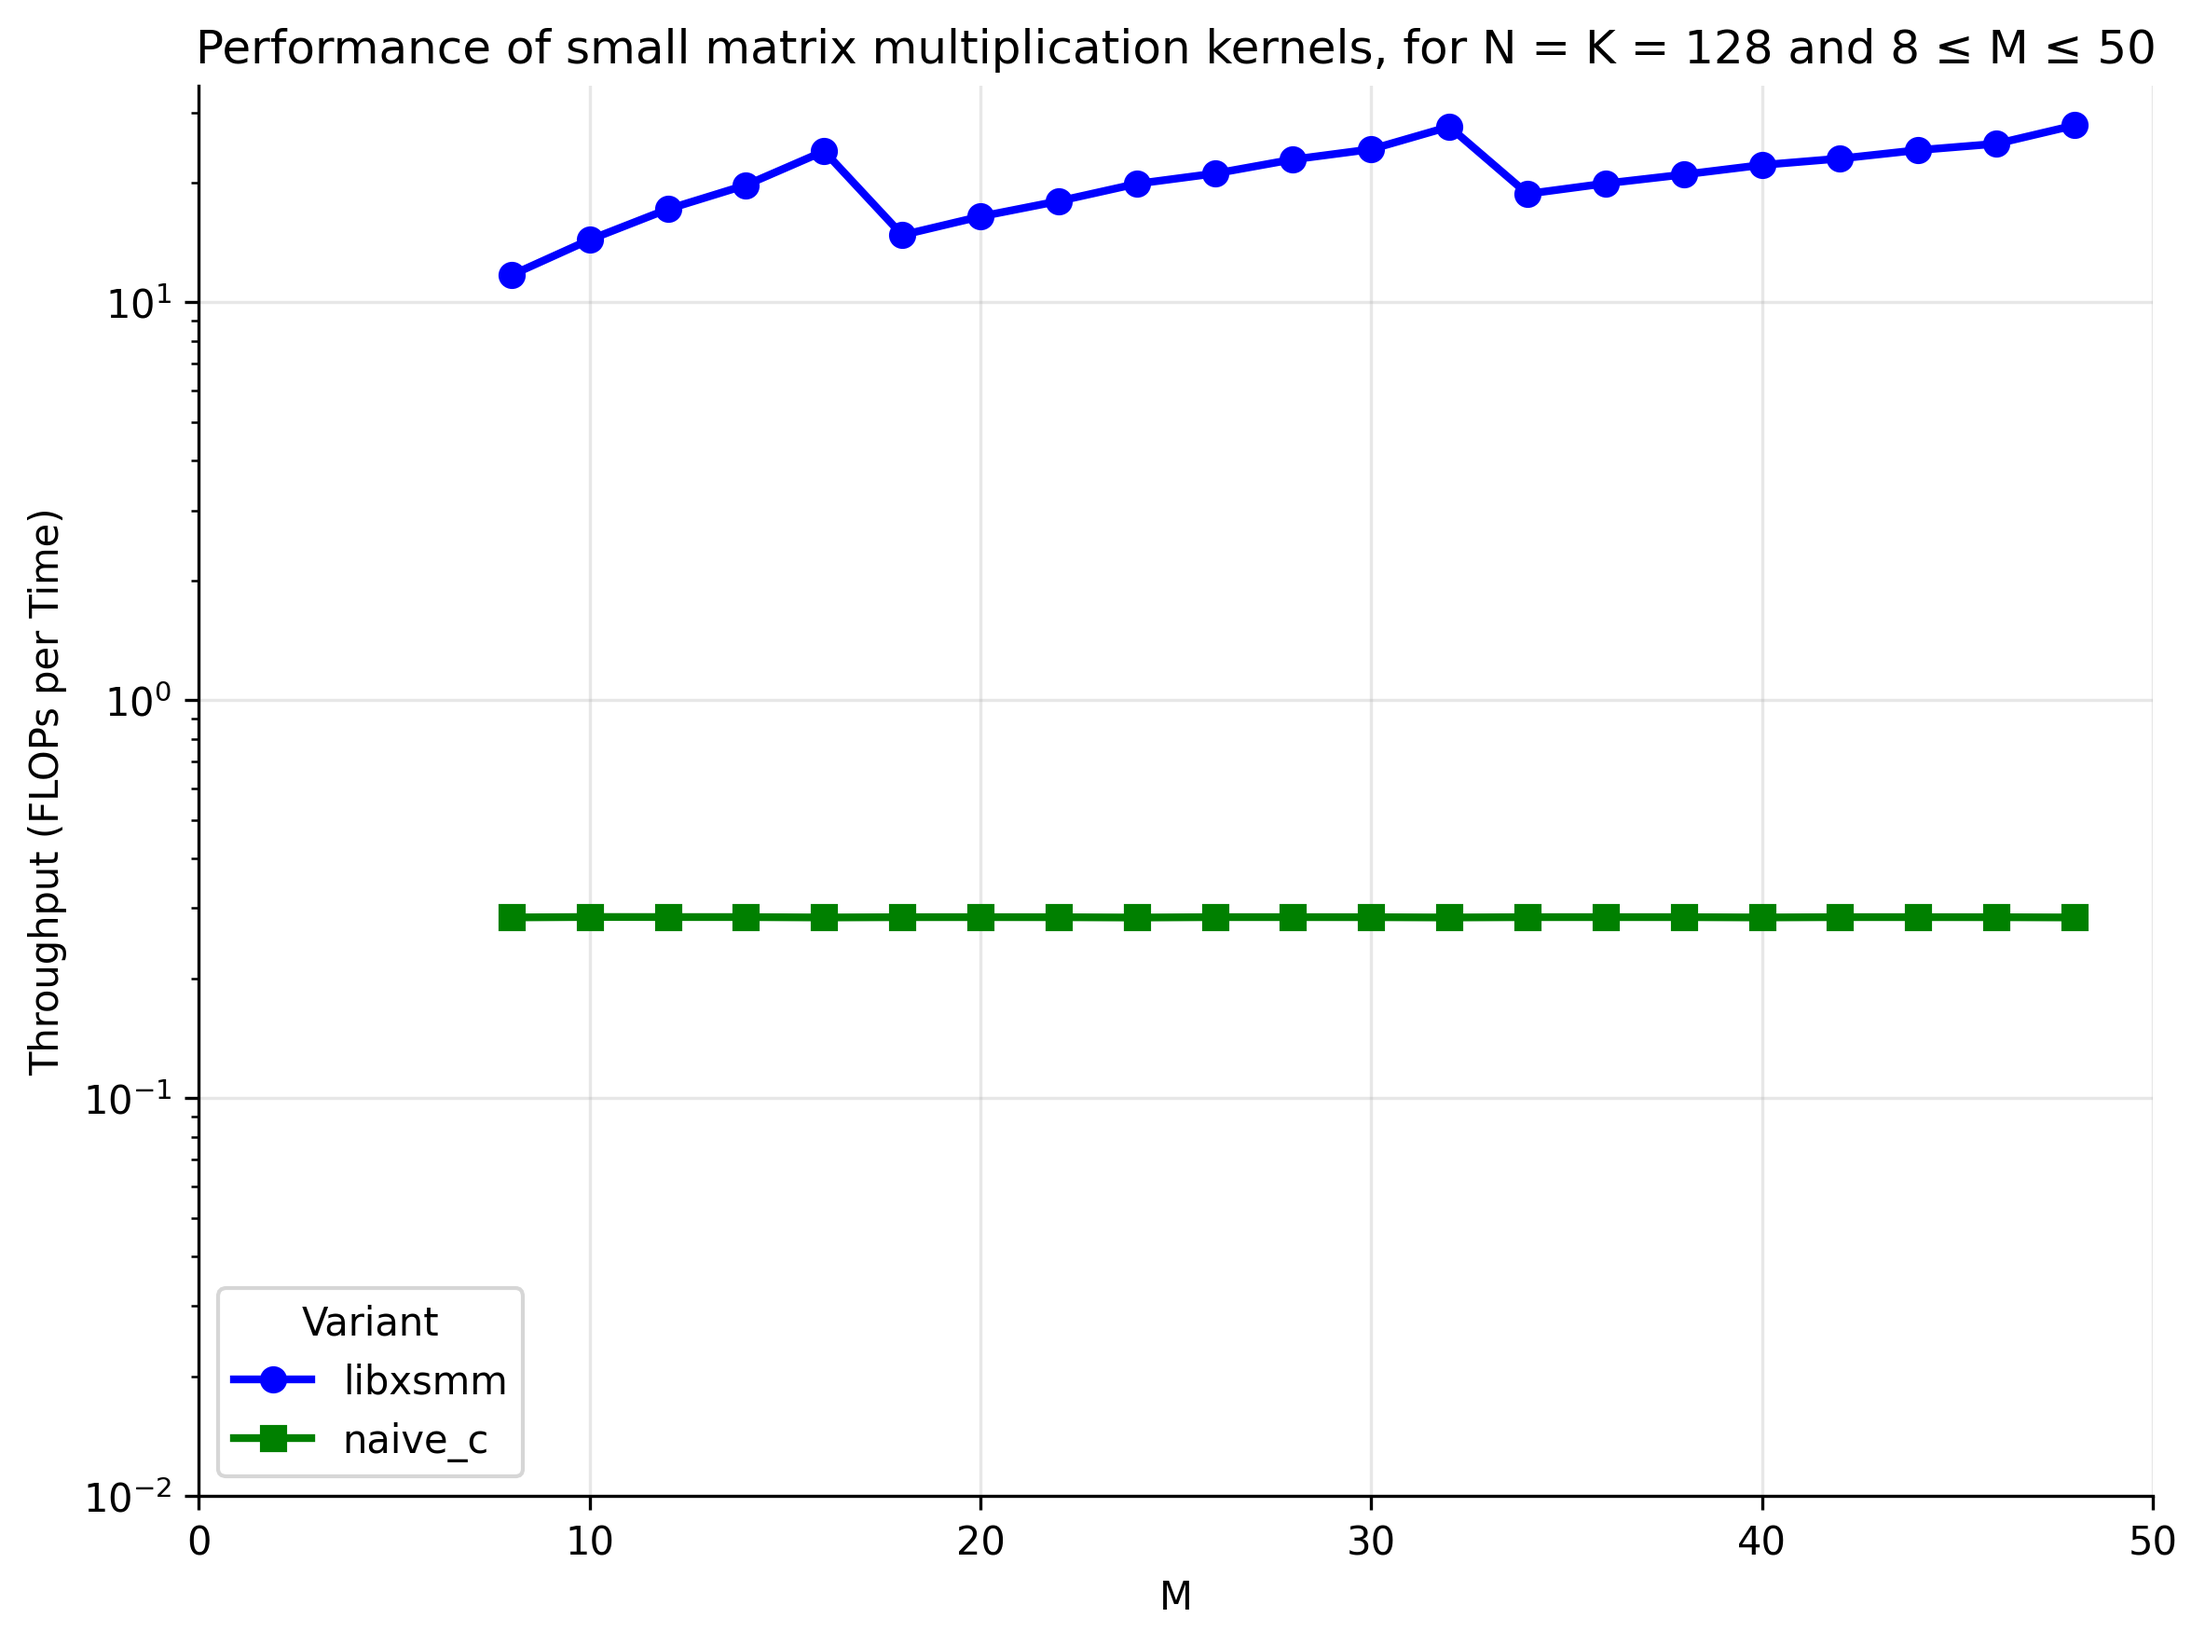
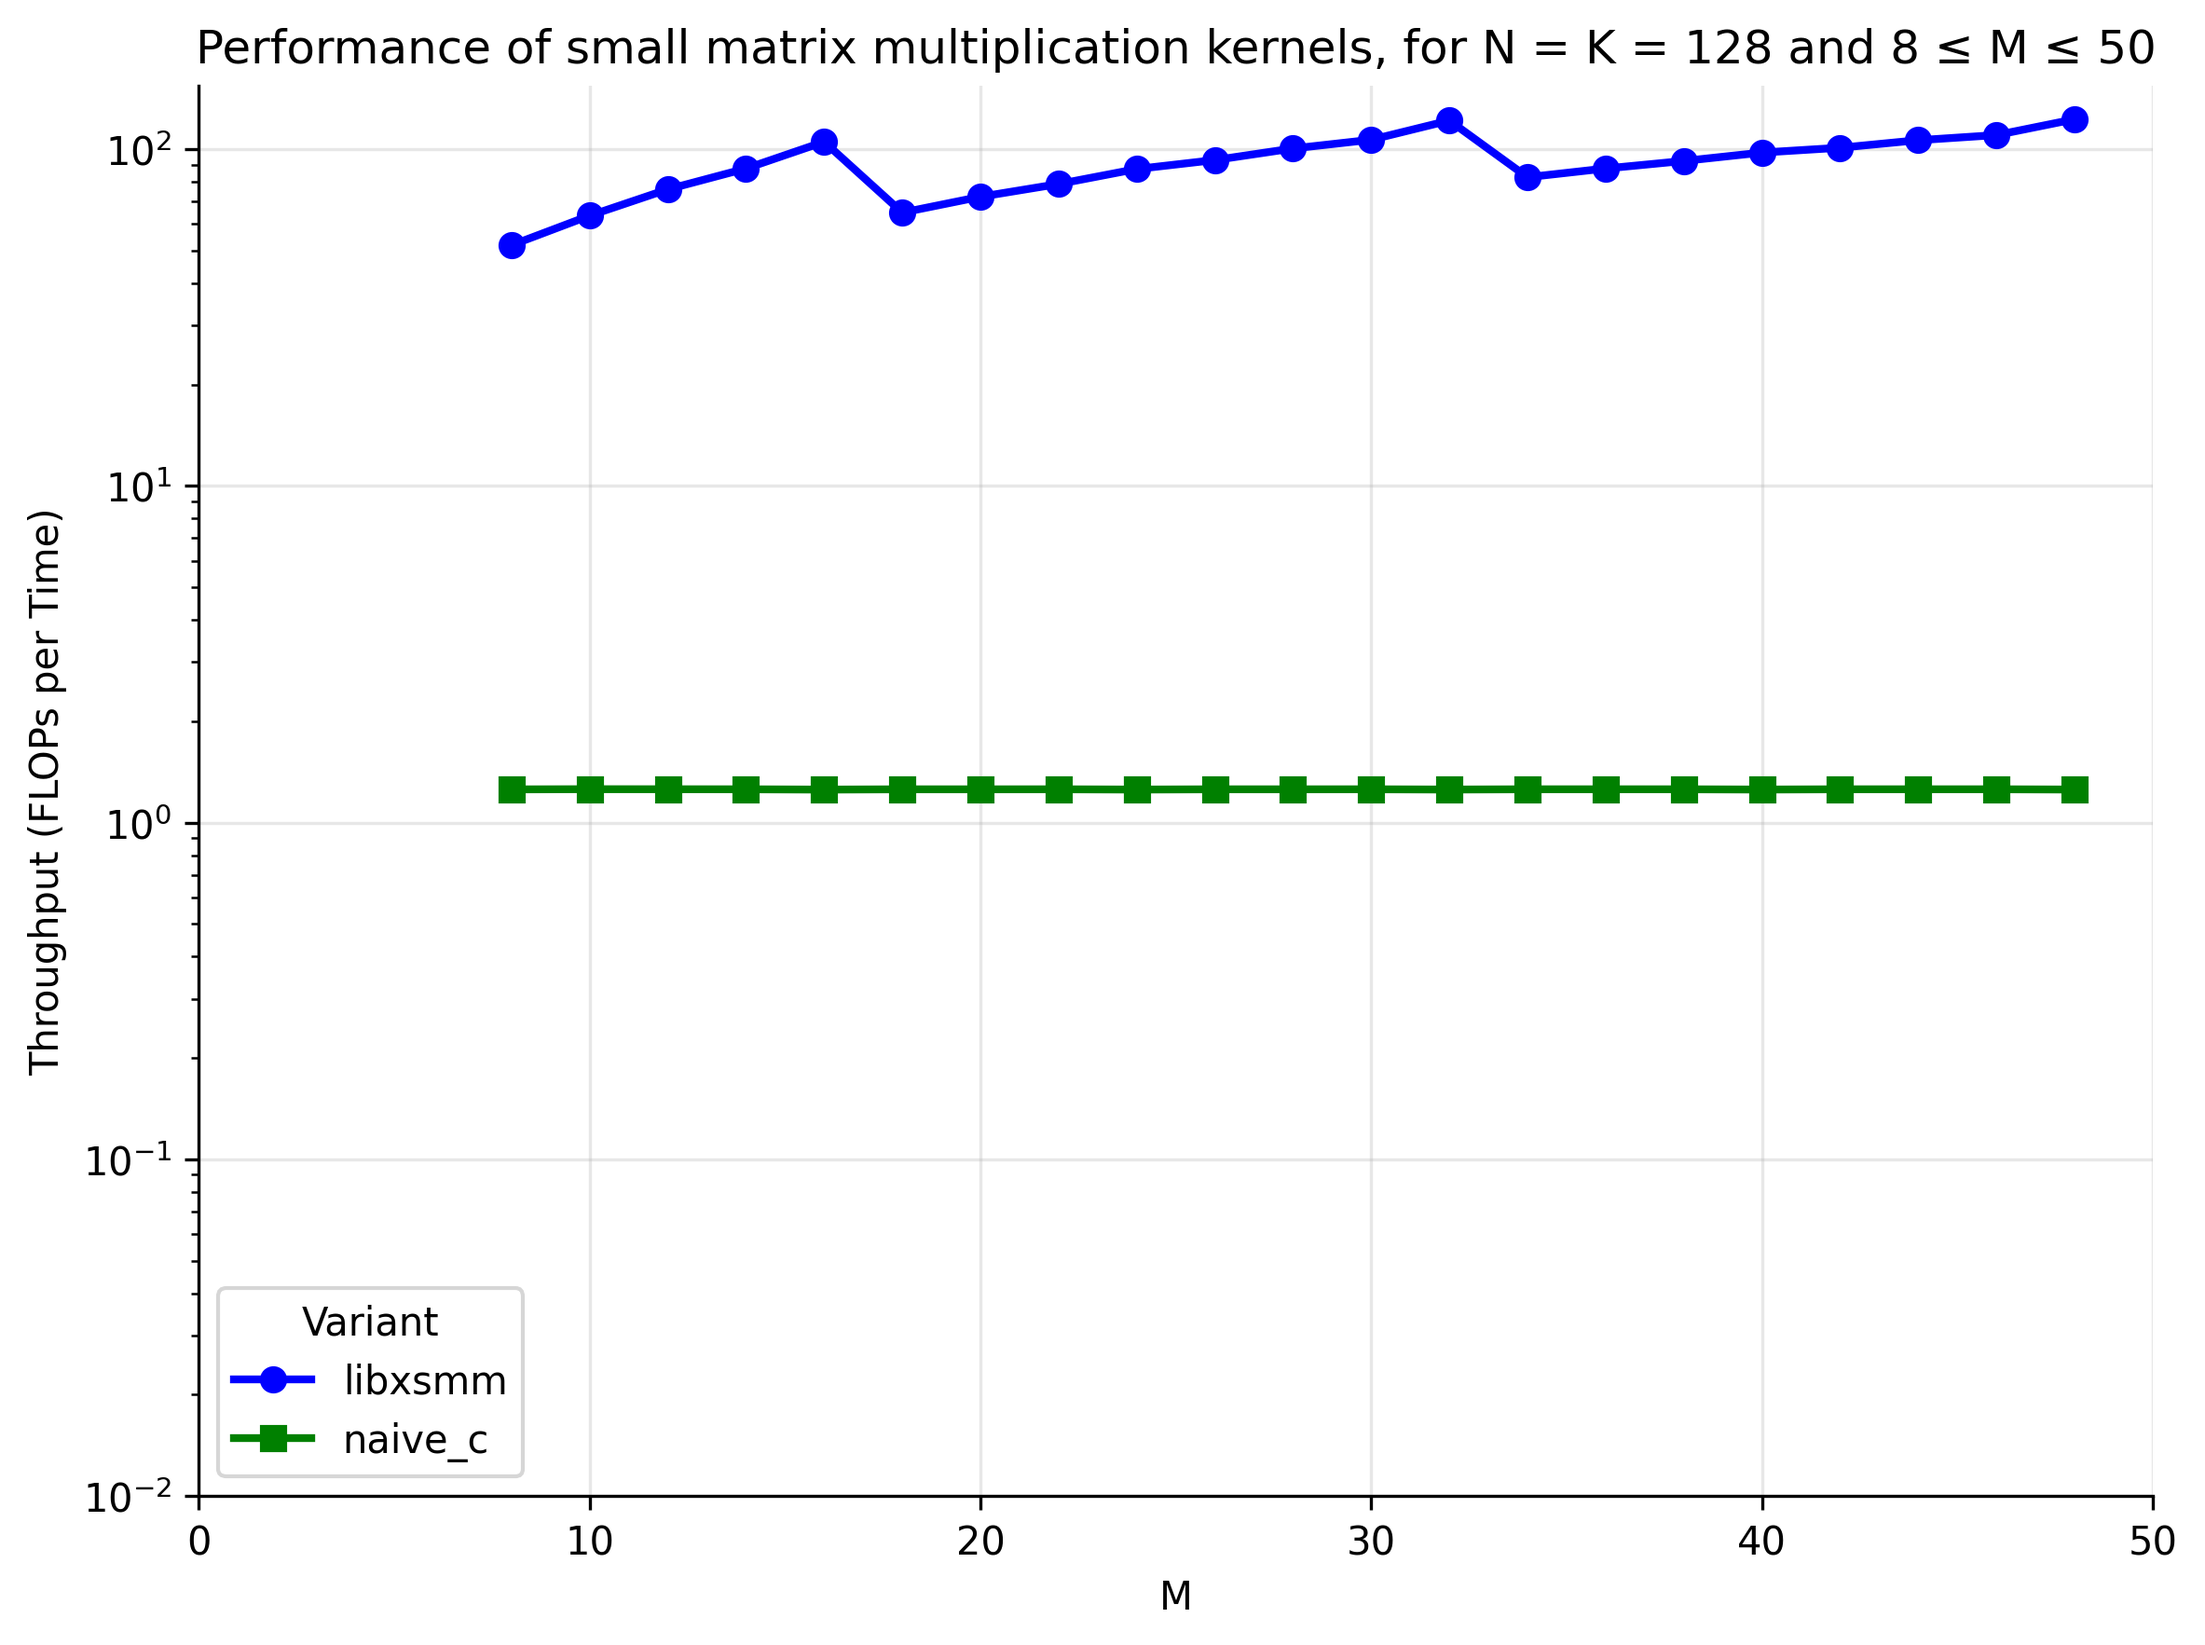
more detailed plot

diff --git a/src/autotuner/plot_cube.py b/src/autotuner/plot_cube.py
@@ -36,11 +36,11 @@ def plot_cube_bar_chart(df: pd.DataFrame, output_file: Path | None = None):
     if "peak" in df.columns:
         peaks = df["peak"].dropna().unique()
         peak = float(peaks[0])
-        ax.axhline(peak, linestyle="--", linewidth=1, label=f"Peak perf (100%)")
+        ax.axhline(peak, linestyle="--", linewidth=1, label="Peak perf (100%)")
         ymax = float(valid_data["throughput"].max()) if len(valid_data) else 0.0
         ymax = max(ymax, peak)
         ax.set_ylim(0, ymax * 1.1 if ymax > 0 else 1)
-        
+
     bars = ax.bar(
         valid_data["variant"],
         valid_data["throughput"],
@@ -49,11 +49,10 @@ def plot_cube_bar_chart(df: pd.DataFrame, output_file: Path | None = None):
 
     # Annotate bars with throughput values
     for bar, throughput in zip(bars, valid_data["throughput"]):
+        t = f"{throughput:.1f}"
         if peak:
-            percent = (throughput/peak)*100
-            t = f"{percent:.1f}%"
-        else:
-            t = f"{throughput:.1f}"
+            percent = (throughput / peak) * 100
+            t = f"{percent:.1f}% ({t})"
         ax.annotate(
             t,
             xy=(bar.get_x() + bar.get_width() / 2, bar.get_height()),
@@ -63,7 +62,6 @@ def plot_cube_bar_chart(df: pd.DataFrame, output_file: Path | None = None):
             va="bottom",
             fontsize=10,
         )
-
 
     ax.set_xlabel("Variant")
     ax.set_ylabel("Throughput (FLOPs per Time)")

diff --git a/kernels/matmul_rowmaj/time.c b/kernels/matmul_rowmaj/time.c
@@ -105,7 +105,7 @@ int main() {
 #if __has_include(<papi.h>)
     CHECK(PAPI_stop(EventSet, values));
 #endif
-    elapsed = (double) values[0] * FREQ;
+    elapsed = (double) values[0] / (double)FREQ;
   }
   else {
   clock_gettime(CLOCK_MONOTONIC, &ts_end);
